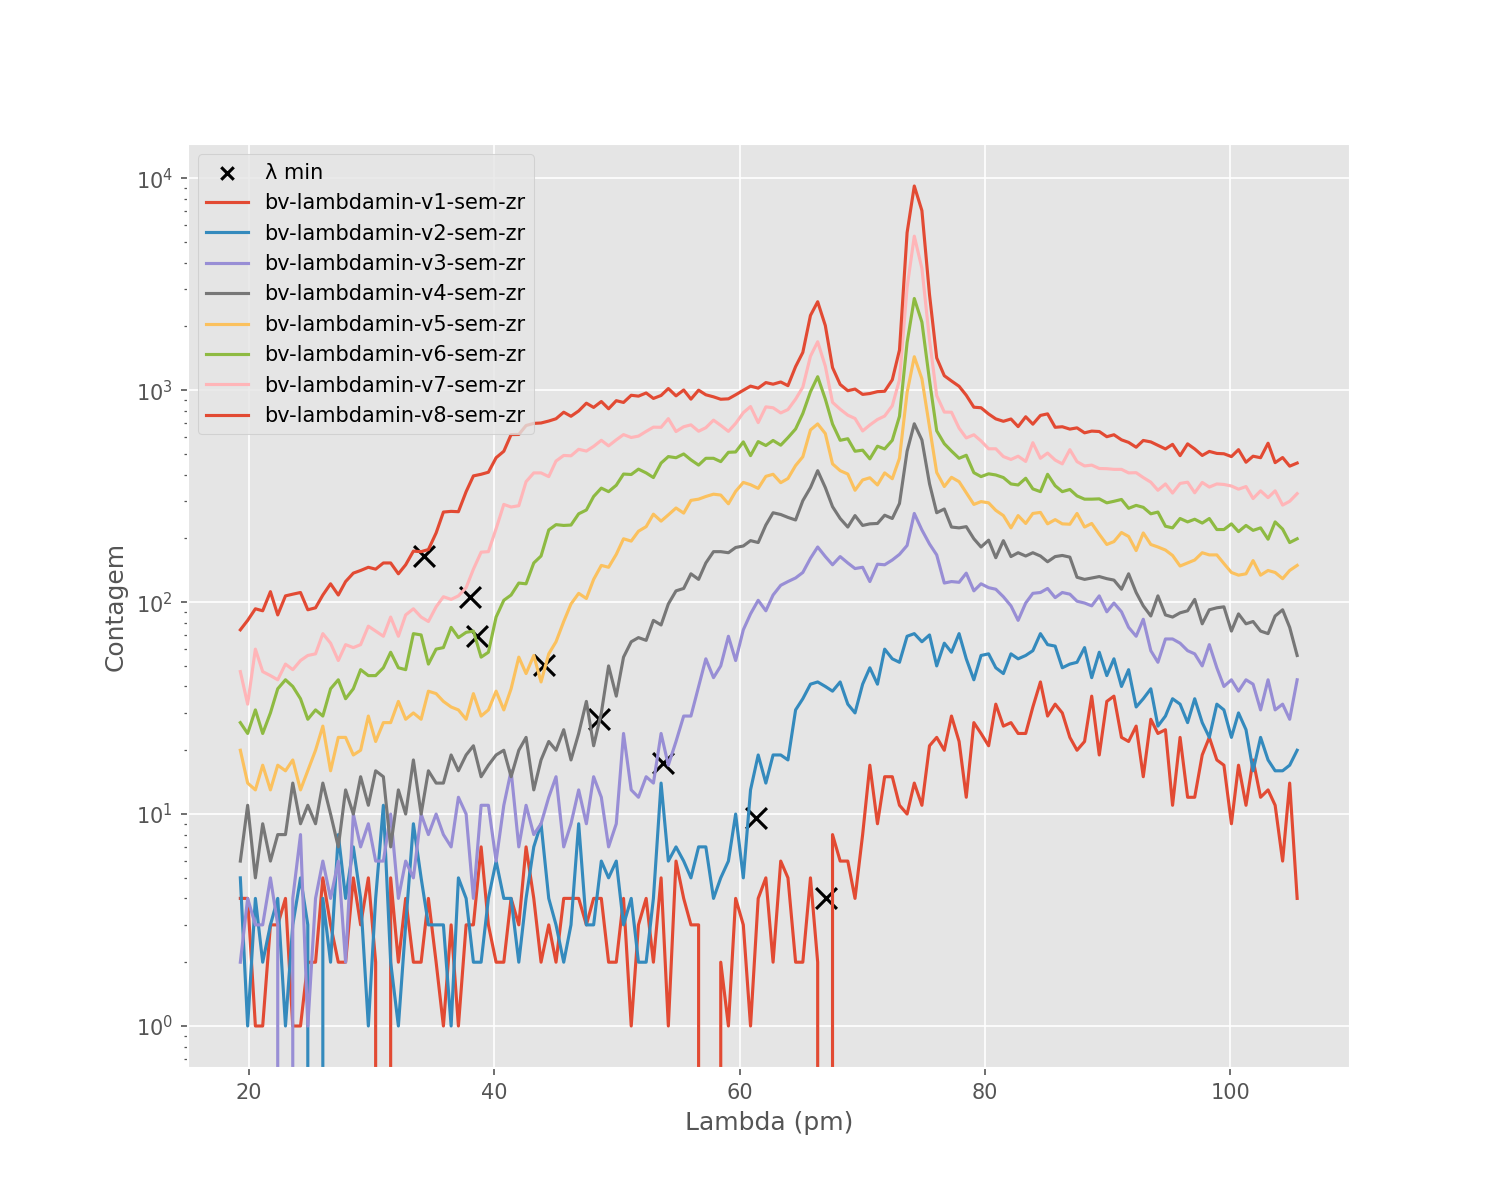
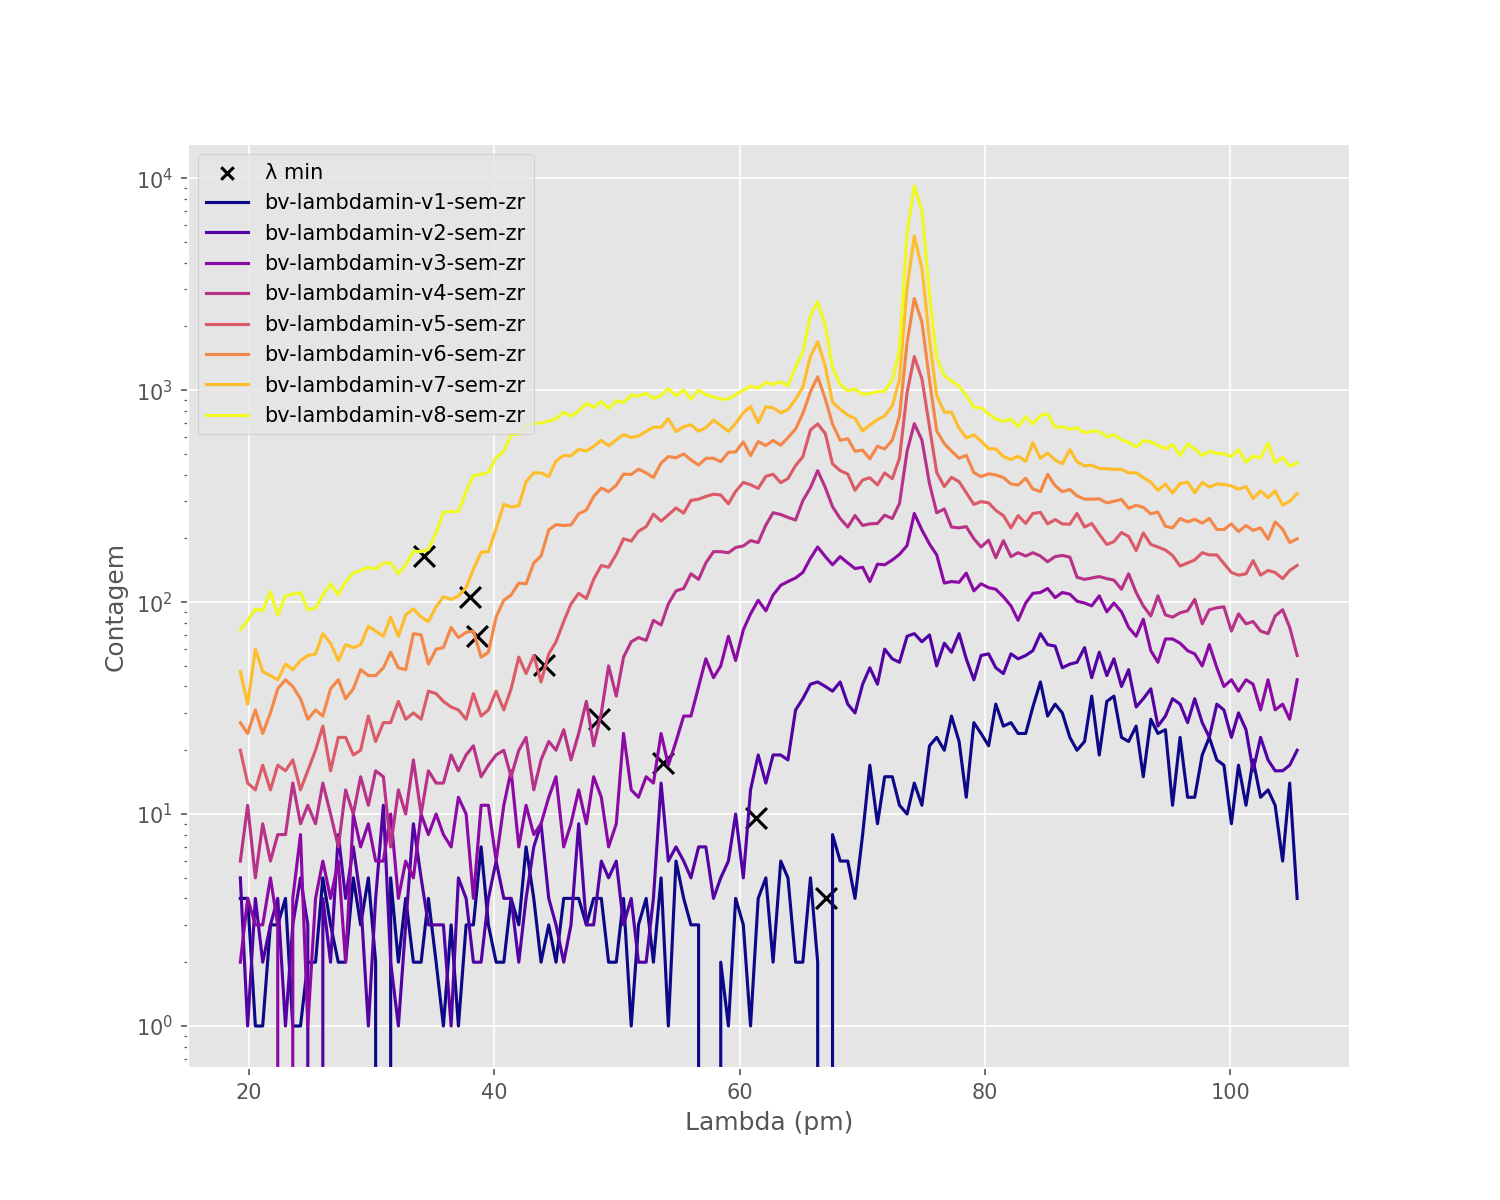
feat: colormap duane_hunt

diff --git a/raio-x/duane_hunt.py b/raio-x/duane_hunt.py
@@ -3,7 +3,7 @@ import scipy as sci
 import numpy as np
 import os
 from tools import *
-directory = "/workspaces/lab-avancado1/raio-x/breno_e_vinicius/bv-lambdamin-sem-zr"
+directory = "breno_e_vinicius/bv-lambdamin-sem-zr"
 files = [x for x in os.listdir(directory) if x.endswith(".dat")]
 files.sort()
 plt.style.use("ggplot")
@@ -31,10 +31,12 @@ voltagem_marcador={
     7:23.03,
     8:25.69
 }
+cmap = plt.get_cmap('plasma')
+colors = [cmap(i) for i in np.linspace(0, 1, len(files))]
 
-for file in files:
+for i, file in enumerate(files):
     x,y=read_file(os.path.join(directory, file))
-    ax.plot(degree_to_lambda(x)*1e12, y, label=file.replace(".dat", ""))
+    ax.plot(degree_to_lambda(x)*1e12, y, label=file.replace(".dat", ""), color=colors[i])
 ax.set_xlabel("Lambda (pm)")
 ax.set_ylabel("Contagem")
 ax.set_yscale("log")
@@ -55,11 +57,12 @@ lambdas_min=np.array(lambdas_min)
 lambdas_min*=1e12
 ax.scatter(1/voltagens, lambdas_min, color="red", label="Dados experimentais")
 popt, pcov = sci.optimize.curve_fit(lambda x, a: a / x, voltagens, lambdas_min)
+perr = np.sqrt(np.diag(pcov))
 x_fit = np.linspace(min(voltagens), max(voltagens), 100)
 y_fit = popt[0] / x_fit
 y_esperado=1239.8/x_fit
-ax.plot(1/x_fit, y_fit, label=f"Ajuste: λ = {popt[0]:.3e} / V", color="blue")
-ax.plot(1/x_fit, y_esperado, label="Teórico: λ = 1.238e+03 / V", color="green", linestyle="--")
+ax.plot(1/x_fit, y_fit, label=f"Ajuste: λ = ({popt[0]:.1f} ± {perr[0]:.1f}) / V", color="blue")
+ax.plot(1/x_fit, y_esperado, label="Teórico: λ = 1.240e+03 / V", color="green", linestyle="--")
 ax.legend()
 
 ax.grid(True)

diff --git a/raio-x/bragg.py b/raio-x/bragg.py
@@ -2,7 +2,7 @@ import matplotlib.pyplot as plt
 import os 
 from tools import *
 
-directory="/workspaces/lab-avancado1/raio-x/breno_e_vinicius/bv-lif-bragg1"
+directory="breno_e_vinicius/bv-lif-bragg1"
 files = [x for x in os.listdir(directory) if x.endswith(".dat")]
 files.sort()
 plt.style.use("ggplot")
